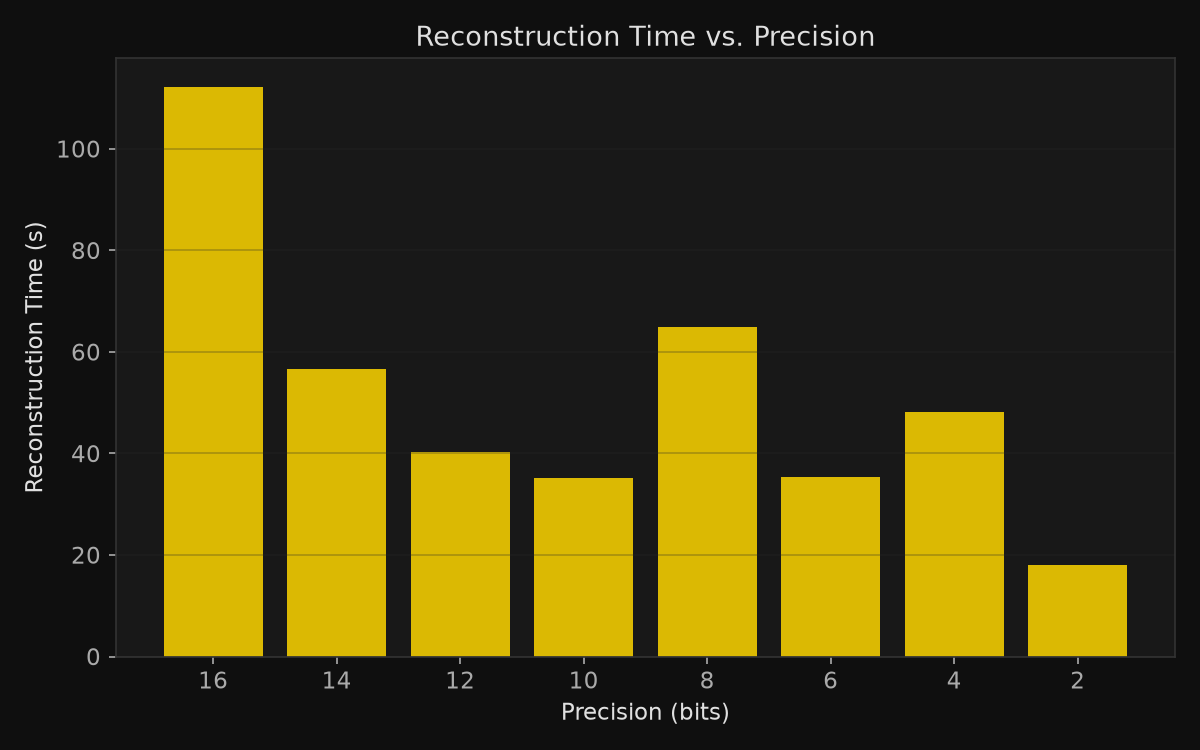
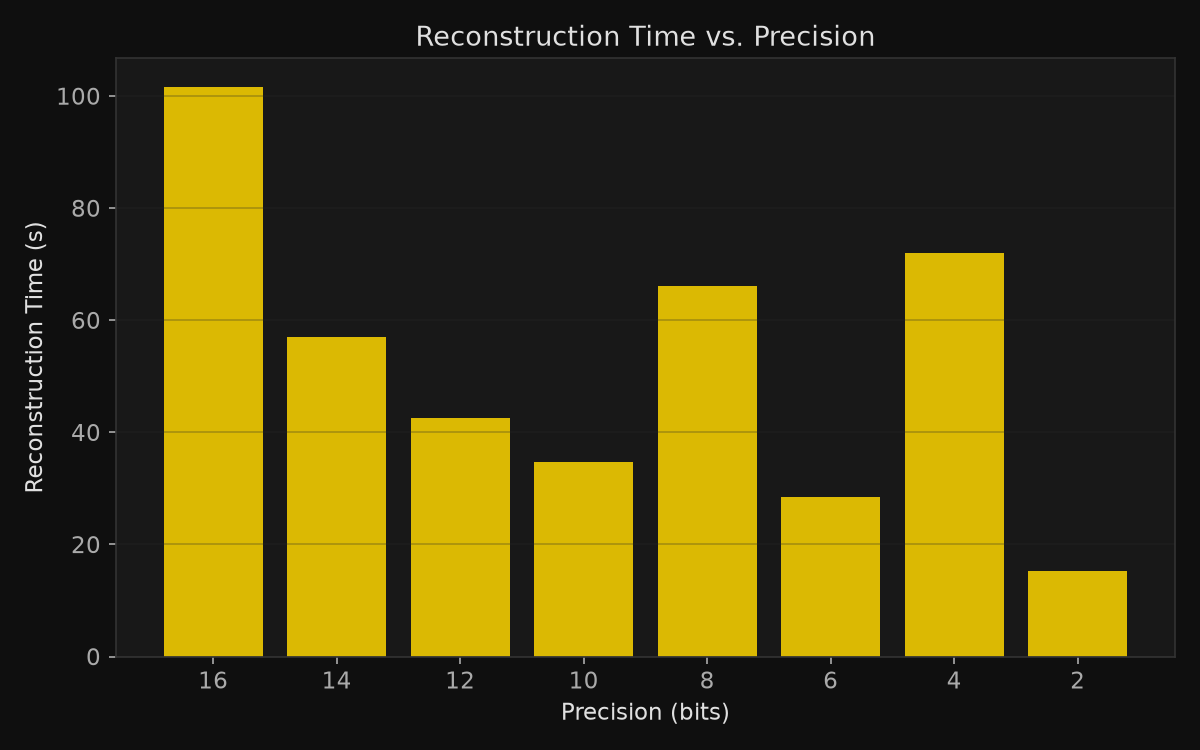
docs: add Phase 1.3 spec and update evaluation results

diff --git a/phases/phase1_3.md b/phases/phase1_3.md
@@ -1,0 +1,239 @@
+# Phase 1.3 — Correct Memory & Bandwidth Accounting
+
+Current memory metrics are misleading because the runtime always reconstructs a full FP16 model before inference.
+
+Do NOT attempt to optimize memory yet.
+
+Instead, report the correct theoretical and actual memory usage separately.
+
+---
+
+## 1. Keep Existing Metrics
+
+Continue measuring
+
+* CPU RAM
+* GPU VRAM
+* Peak GPU VRAM
+* Reconstruction Time
+* Model Initialization Time
+
+These represent actual runtime usage.
+
+---
+
+## 2. Add UPR-Specific Memory Metrics
+
+For every precision compute
+
+### Planes Loaded
+
+Example
+
+16 bits
+
+↓
+
+16 planes
+
+10 bits
+
+↓
+
+10 planes
+
+4 bits
+
+↓
+
+4 planes
+
+---
+
+### Bytes Read From Checkpoint
+
+Report
+
+actual_bytes_loaded
+
+instead of
+
+full_checkpoint_size
+
+Example
+
+```text
+16 bits
+
+1920 MB
+
+↓
+
+10 bits
+
+1200 MB
+
+↓
+
+8 bits
+
+960 MB
+
+↓
+
+4 bits
+
+480 MB
+
+↓
+
+2 bits
+
+240 MB
+```
+
+---
+
+### Effective Checkpoint Size
+
+Compute
+
+```text
+effective_checkpoint_size =
+checkpoint_size ×
+(bits_loaded / total_planes)
+```
+
+Store
+
+effective_checkpoint_size_mb
+
+---
+
+### Compression Ratio
+
+Compute
+
+```text
+effective_checkpoint_size /
+original_fp16_checkpoint_size
+```
+
+---
+
+### Bandwidth Reduction
+
+Compute
+
+```text
+bytes_loaded /
+fp16_checkpoint_size
+```
+
+Example
+
+```text
+16 bits
+
+100%
+
+↓
+
+8 bits
+
+50%
+
+↓
+
+4 bits
+
+25%
+
+↓
+
+2 bits
+
+12.5%
+```
+
+---
+
+## 3. Separate Runtime Memory From Representation Memory
+
+Rename current fields
+
+runtime_gpu_vram_mb
+
+runtime_cpu_ram_mb
+
+Add
+
+representation_size_mb
+
+effective_loaded_size_mb
+
+planes_loaded
+
+bytes_loaded
+
+---
+
+## 4. Add Summary Table
+
+Generate
+
+| Bits | Planes Loaded | Bytes Loaded | Effective Checkpoint | Runtime VRAM |
+| ---- | ------------: | -----------: | -------------------: | -----------: |
+
+This clearly separates
+
+storage
+
+from
+
+runtime.
+
+---
+
+## 5. Do NOT Claim
+
+Do not claim
+
+* VRAM reduction
+* GPU memory reduction
+* Runtime memory reduction
+
+Current implementation still reconstructs FP16 tensors.
+
+These claims would be incorrect.
+
+---
+
+## 6. Add Future Metric Placeholder
+
+Add fields
+
+future_expected_vram_mb
+
+future_expected_bandwidth
+
+These should be calculated analytically only.
+
+Clearly mark them as
+
+"Theoretical"
+
+not measured.
+
+---
+
+## Deliverable
+
+The report should distinguish between
+
+1. Actual runtime memory
+2. Representation storage
+3. Data loaded from checkpoint
+4. Theoretical future execution memory
+
+This prevents misleading conclusions while accurately demonstrating the storage advantages of UPR.
